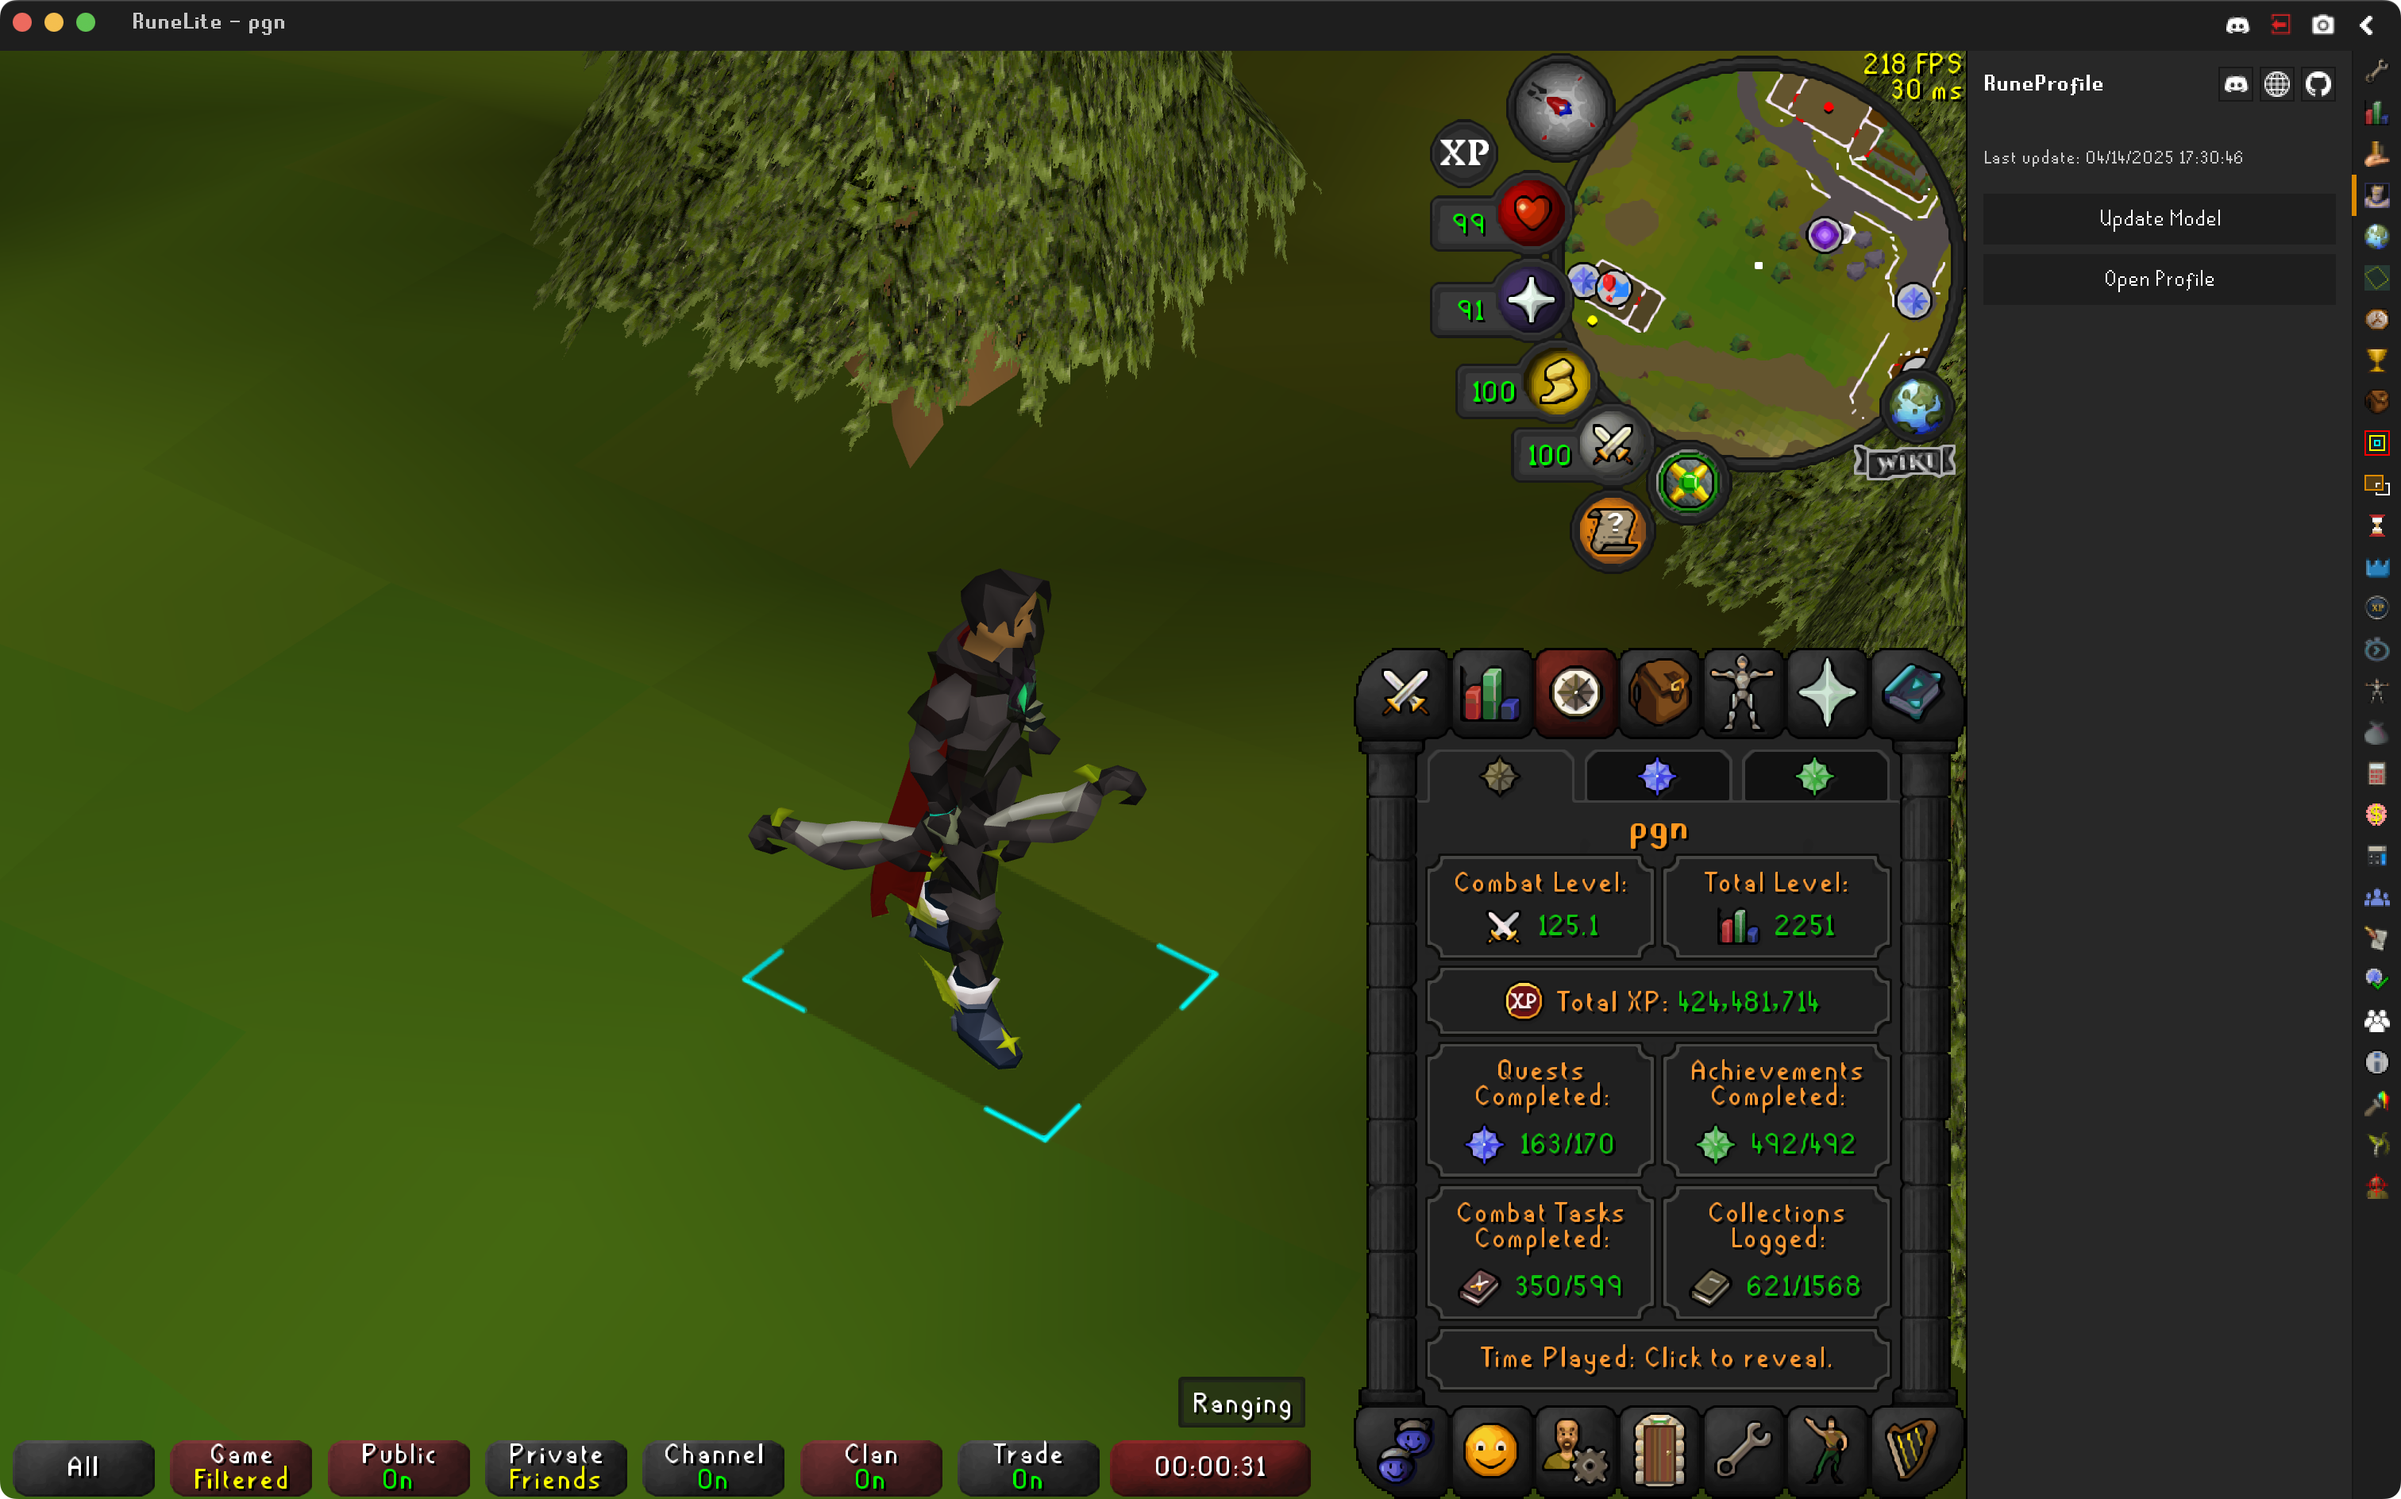
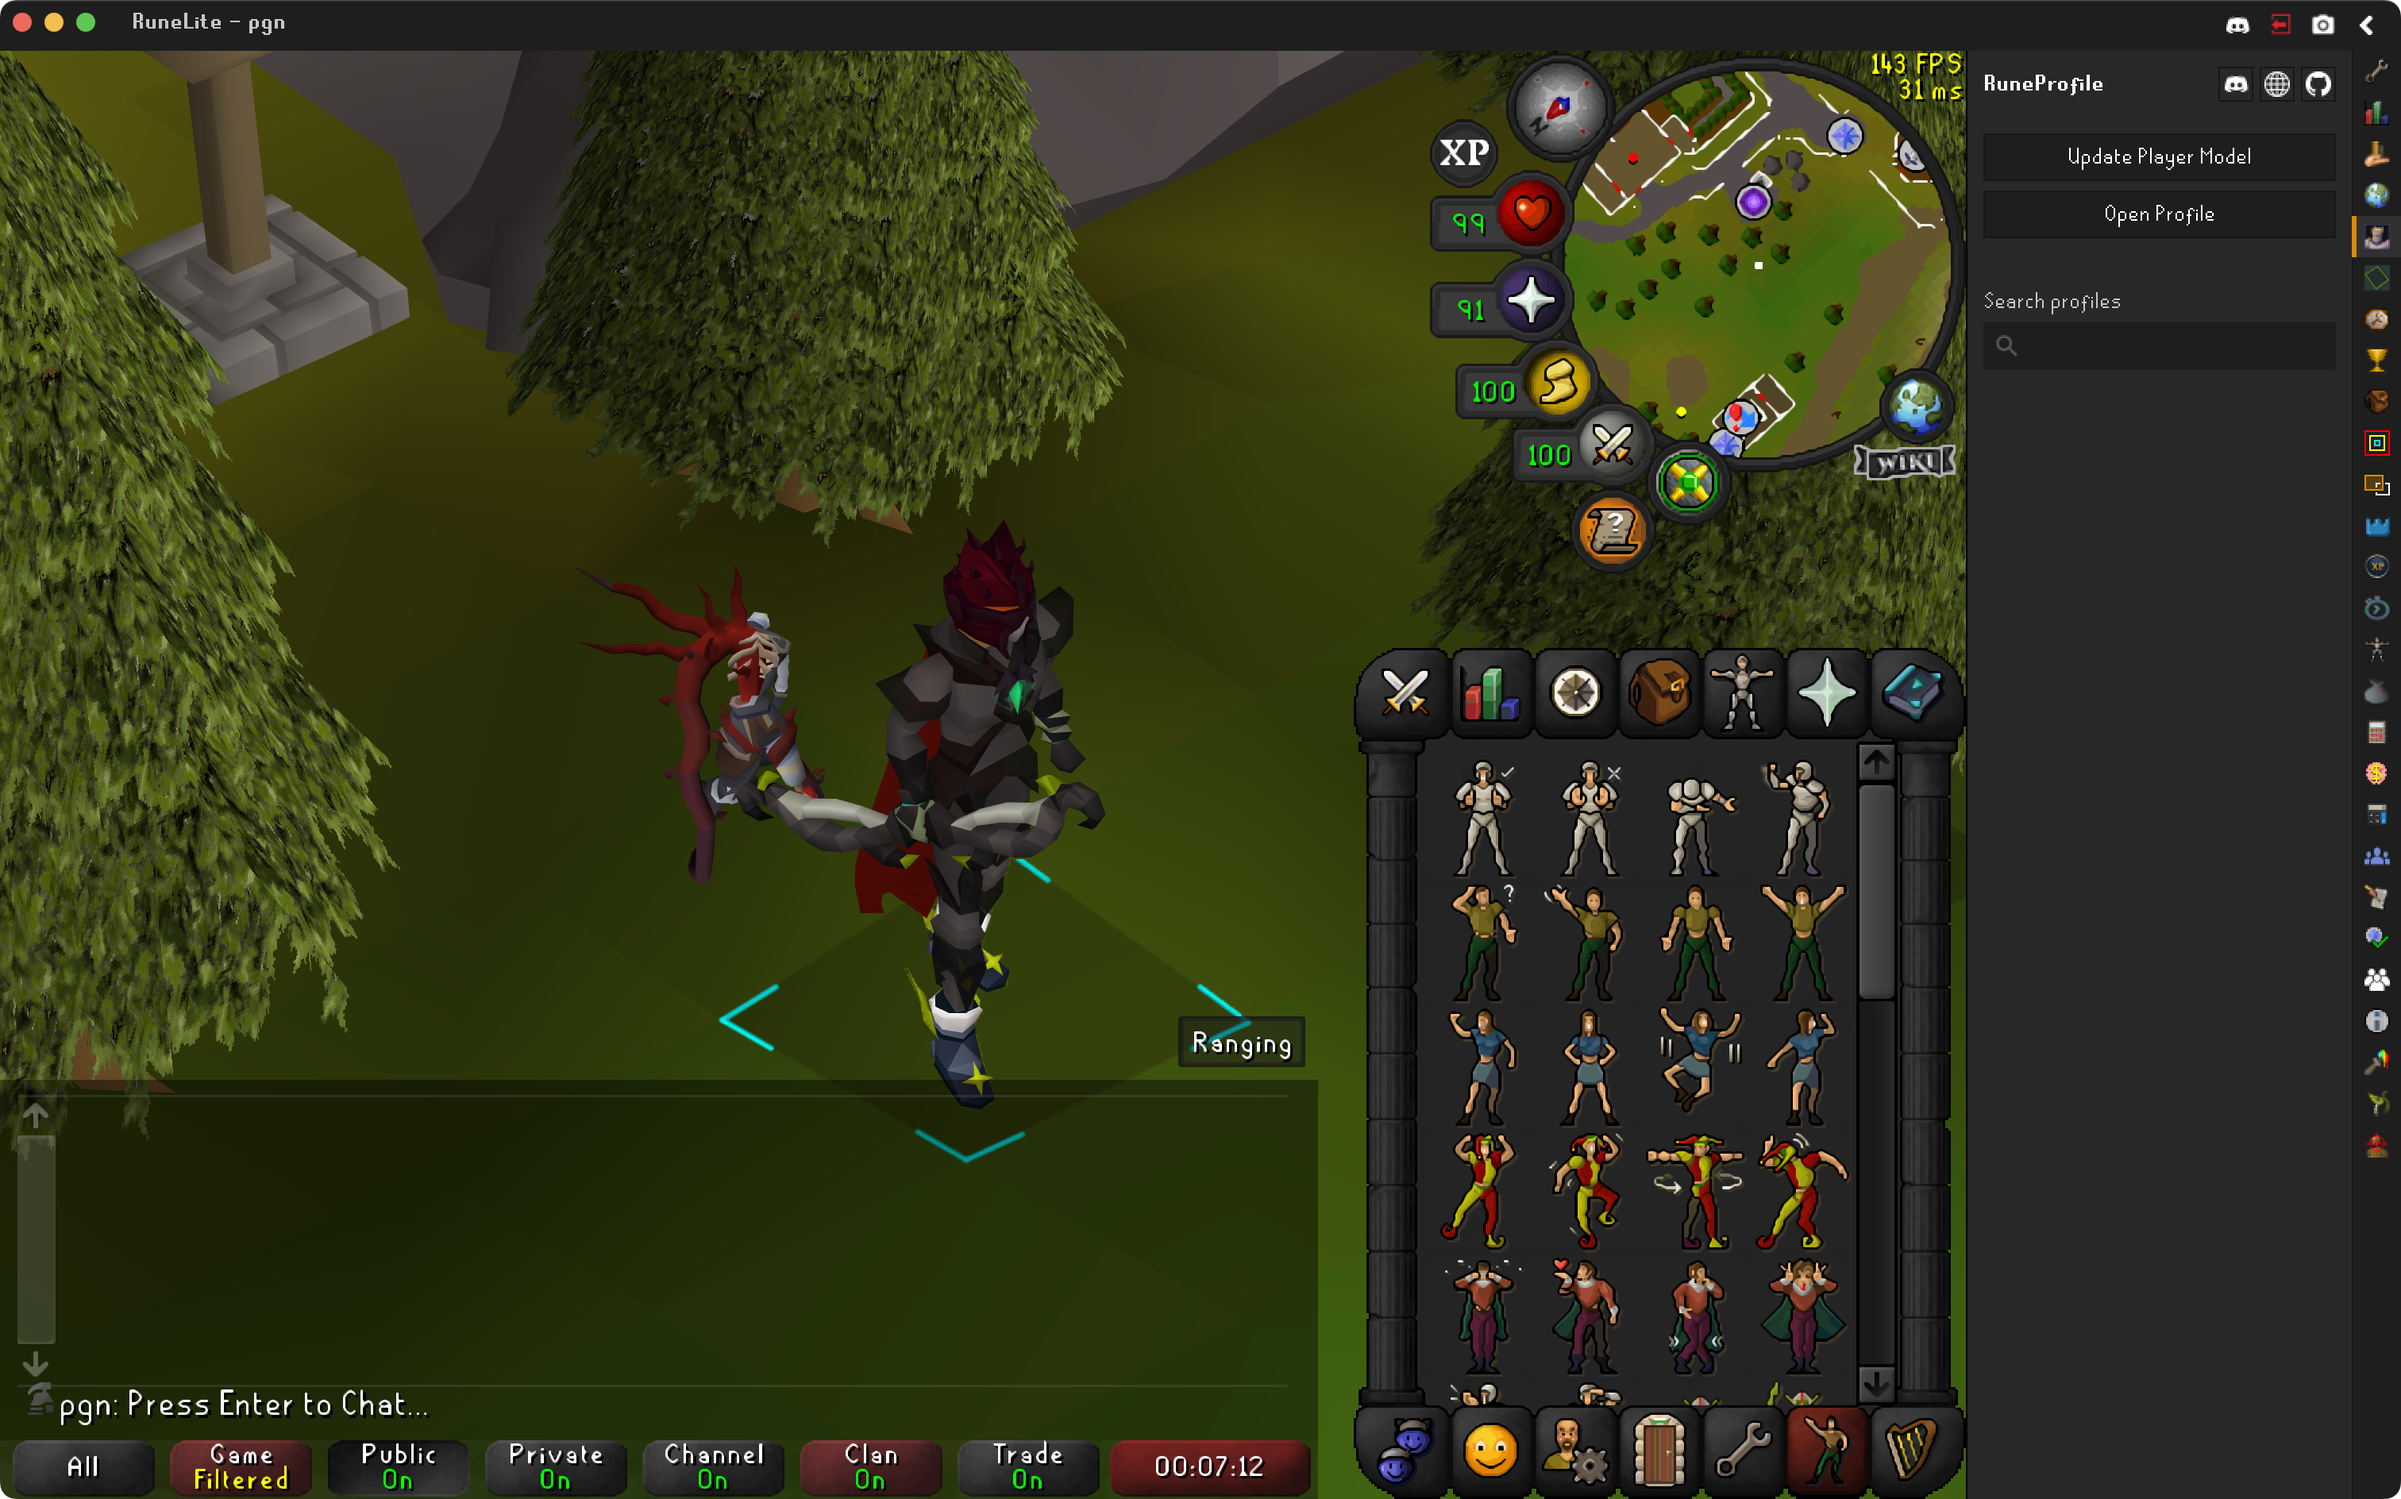
update guide

diff --git a/apps/web/src/routes/info/guide.tsx b/apps/web/src/routes/info/guide.tsx
@@ -117,8 +117,11 @@ function RouteComponent() {
             </GuideHeading>
             <ol className="ml-6 list-decimal space-y-2 text-muted-foreground">
               <li>Open the RuneProfile plugin panel.</li>
-              <li>Click the "Update Model"-button.</li>
+              <li>Click the "Update Player Model"-button.</li>
             </ol>
+            <GuideParagraph>
+              If a pet is following you, it will be shown on your profile.
+            </GuideParagraph>
             <GuideImage
               src={UpdateModelImage}
               alt="Updating Player Model Screenshot"
